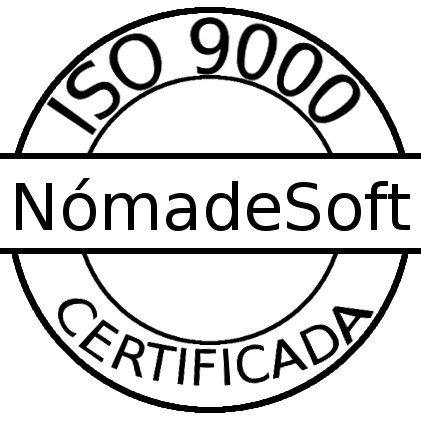
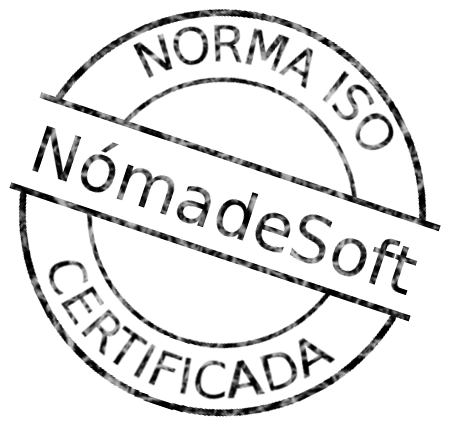
Cambios estéticos.
Cambié la imagen de calidad por un "sello".
Agregué un efecto sutil a los botones de ver más, falta hacer circular los botones de flechas.

diff --git a/index.html b/index.html
@@ -108,8 +108,7 @@
                 <div class="text-left col-md-6">
                     <h1 class="mb-3 ns-section_title">Nosotros</h1>
                     <p class="lead ns-section_text">"Promovemos el respeto, valorando a las personas como recurso primario, reconociendo el esfuerzo, favoreciendo la capacitación y manteniendo un ambiente saludable de trabajo."</p>
-                    <!-- <a class="btn btn-primary" href="nosotros.html" role="button">VER MÁS<span class="spinner-grow spinner-grow-sm"></span><span class="spinner-grow spinner-grow-sm"></span><span class="spinner-grow spinner-grow-sm"></span></a> -->
-                    <a href="javascript:goTo('nosotros.html','#quienessomos');" class="btn btn-primary">VER MÁS<span class="spinner-grow spinner-grow-sm"></span><span class="spinner-grow spinner-grow-sm"></span><span class="spinner-grow spinner-grow-sm"></span></a>
+                    <a href="javascript:goTo('nosotros.html','#quienessomos');" class="btn btn-outline-primary sobra-animada-1">VER MÁS</a>
                 </div>
                 <div class="col-md-6">
                     <img class="d-md-block d-none zoom" src="recursos/img/nomadesoft-nosotros.png" alt="NomadeSoft-Nosotros" width="400">
@@ -126,7 +125,7 @@
                 <div class="text-left col-md-6">
                     <h1 class="mb-3 ns-section_title">Calidad</h1>
                     <p class="lead ns-section_text">"Mantenemos y mejoramos continuamente nuestro Sistema de Gestión de Calidad basándonos en la innovación de procesos y prácticas institucionalizadas, que se realizan en forma ejemplar"</p>
-                    <a href="javascript:goTo('calidad.html','#compromisocalidad');" class="btn btn-primary">VER MÁS</a>
+                    <a href="javascript:goTo('calidad.html','#compromisocalidad');" class="btn btn-outline-primary sobra-animada-1">VER MÁS</a>
                 </div>
                 <div class="col-md-6">
                     <img class="d-md-block d-none zoom" src="recursos/img/nomadesoft-calidad.png" alt="NomadeSoft-Calidad" width="400">

diff --git a/calidad.html b/calidad.html
@@ -83,7 +83,7 @@
         <div class="text-center col-md-8 mx-auto">
             <h1 class="mb-3 ns-section_title">Compromiso con la calidad</h1>
             <p class="lead ns-section_text">
-                Desde 2010, se ha desarrollado, mantenido y actualizado un <strong>Sistema de Gestión de la Calidad certificado</strong>, en cumplimiento de la <strong>Norma Internacional “ISO 9001”, primero en su versión 2008 y ahora en su versión 2015</strong>. Para ello se han desarrollado e institucionalizado procesos en concordancia con los requisitos mencionados en dicho estándar.
+                Desde 2010, se ha desarrollado, mantenido y actualizado un <strong>Sistema de Gestión de la Calidad certificado</strong>, en cumplimiento de la <strong>Norma Internacional “ISO 9001”, primero en su versión 2008 y ahora en su versión 2015</strong>. Para ello se han desarrollado e institucionalizado procesos en concordancia con los requisitos de dicha norma.
             </p>
             <p class="lead ns-section_text">
                 Nuestro Sistema de Gestión de Calidad tiene como objetivo la satisfacción de las partes interesadas  y la mejora de servicios y procesos, todo desarrollado e implementado dentro de un <strong>Ciclo de Mejora Continua</strong> llamado <strong>Ciclo PDCA</strong> (por sus iniciales en inglés).  Este ciclo, es la base de la <strong>Norma ISO 9001:2015</strong> y consiste en: <strong>Planificar, Hacer, Verificar y Actuar</strong>.

diff --git a/recursos/css/vellese.css b/recursos/css/vellese.css
@@ -273,6 +273,31 @@
     transition: all 1s ease;
 }
 
+@keyframes shadow-pulse
+{
+  0% {
+    box-shadow: 0 0 0 0px rgba(0,90,135, 0.9);
+  }
+  100% {
+    box-shadow: 0 0 0 10px rgba(0,90,135, 0);
+  }
+}
+
+@keyframes shadow-pulse-big
+{
+  0% {
+    box-shadow: 0 0 0 0px rgba(0, 0, 0, 0.1);
+  }
+  100% {
+    box-shadow: 0 0 0 70px rgba(0, 0, 0, 0);
+  }
+}
+
+.sobra-animada-1
+{
+  animation: shadow-pulse 2s infinite;
+}
+
 /* ################################ inicio flechas fijas ######################## */
 
 .flecha {
@@ -314,7 +339,7 @@
     left:-10px;
 }
 .flecha.abajo{
-    border-color: transparent transparent #007bff transparent;
+    border-color: transparent transparent #005a87 transparent;
 }
 .flecha.abajo>div {
     border-color: transparent transparent white transparent;

diff --git a/nosotros.html b/nosotros.html
@@ -170,7 +170,7 @@
                 </a>
             </div> -->
             <div class="row animate-in justify-content-center">
-                <a href="javascript:void(0);" class="ns-scroll" data-target="#tiempo"><i class="fas fa-chevron-circle-down fa-2x"></i></a>
+                <a href="javascript:void(0);" class="ns-scroll" data-target="#tiempo"><i class="fas fa-chevron-circle-down fa-2x sobra-animada-1"></i></a>
             </div>
             <p></p>
         </div>
